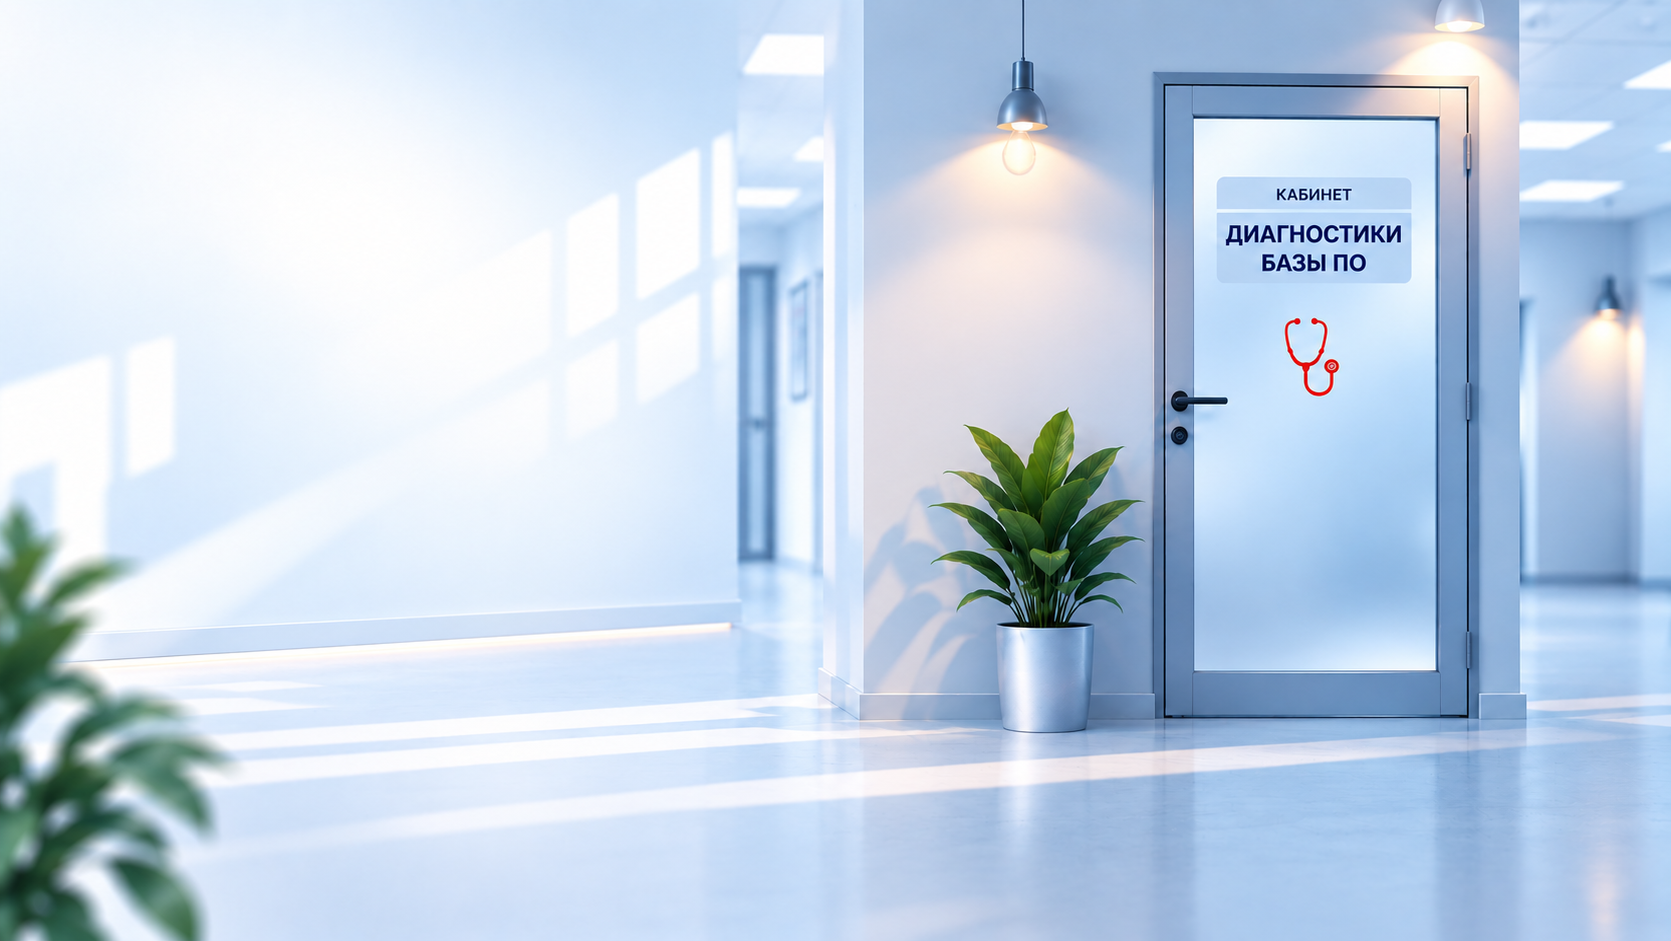
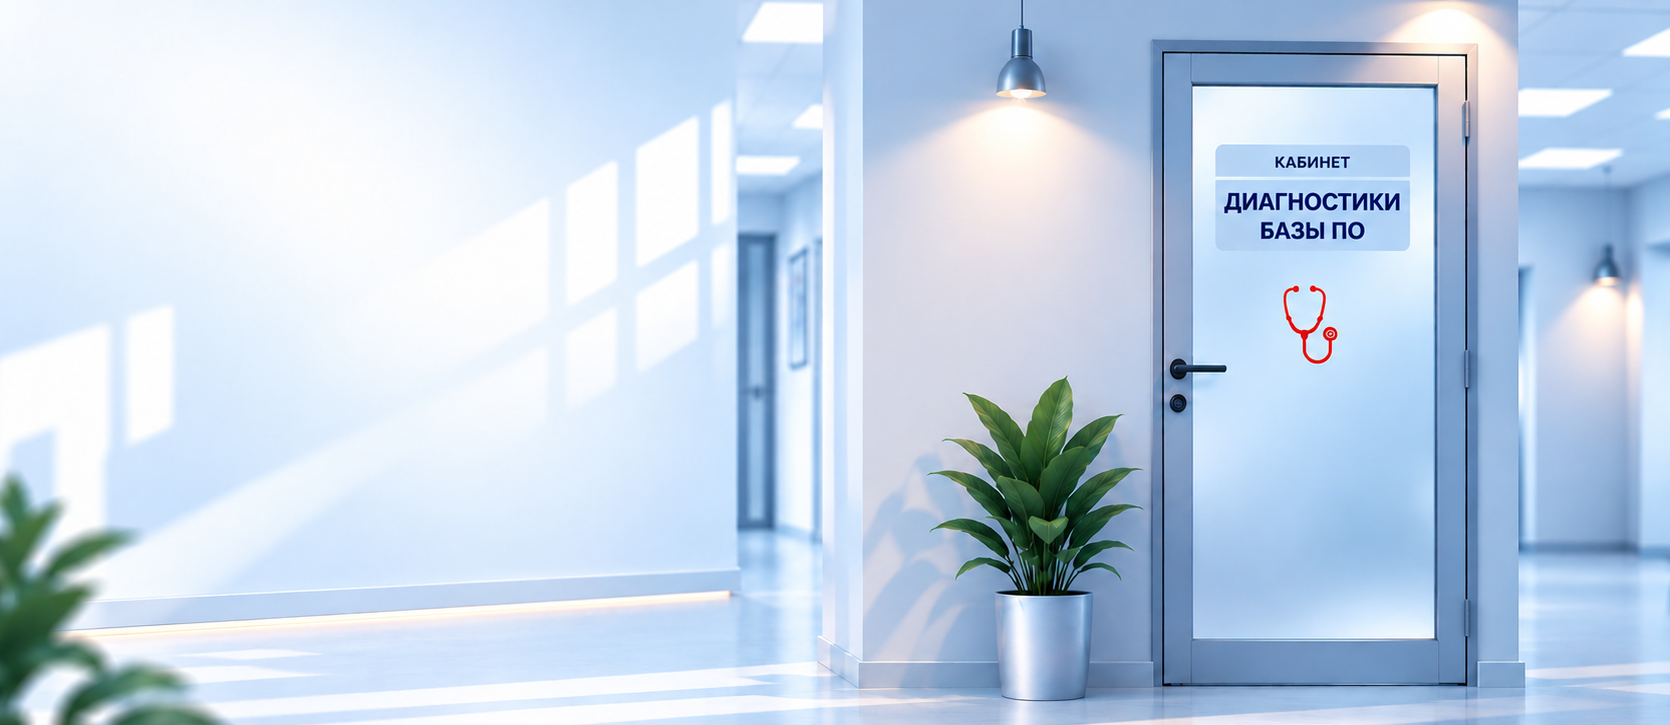
Кабинет: обновлённое hero-фото 12_27_51-2

diff --git a/kabinet-diagnostiki/index.html b/kabinet-diagnostiki/index.html
@@ -7,12 +7,12 @@
   <title>Кабинет диагностики — Клиника чистых данных | ИТМен</title>
   <meta name="description" content="Бесплатный кабинет диагностики базы ПО: загрузите выгрузку, получите индекс чистоты, карту симптомов и сверку с эталонным каталогом. Данные не покидают ваш компьютер.">
   <link rel="icon" href="assets/logo.svg" type="image/svg+xml">
-  <link rel="stylesheet" href="styles.css?v=25">
+  <link rel="stylesheet" href="styles.css?v=26">
 </head>
 <body>
 
 <section class="hero">
-  <img class="hero__bg" src="assets/hero-clinic.png?v=25" alt="" width="1671" height="941" decoding="async" aria-hidden="true">
+  <img class="hero__bg" src="assets/hero-clinic.png?v=26" alt="" width="1670" height="725" decoding="async" aria-hidden="true">
   <div class="hero__veil" aria-hidden="true"></div>
 
   <div class="wrap hero__inner">
